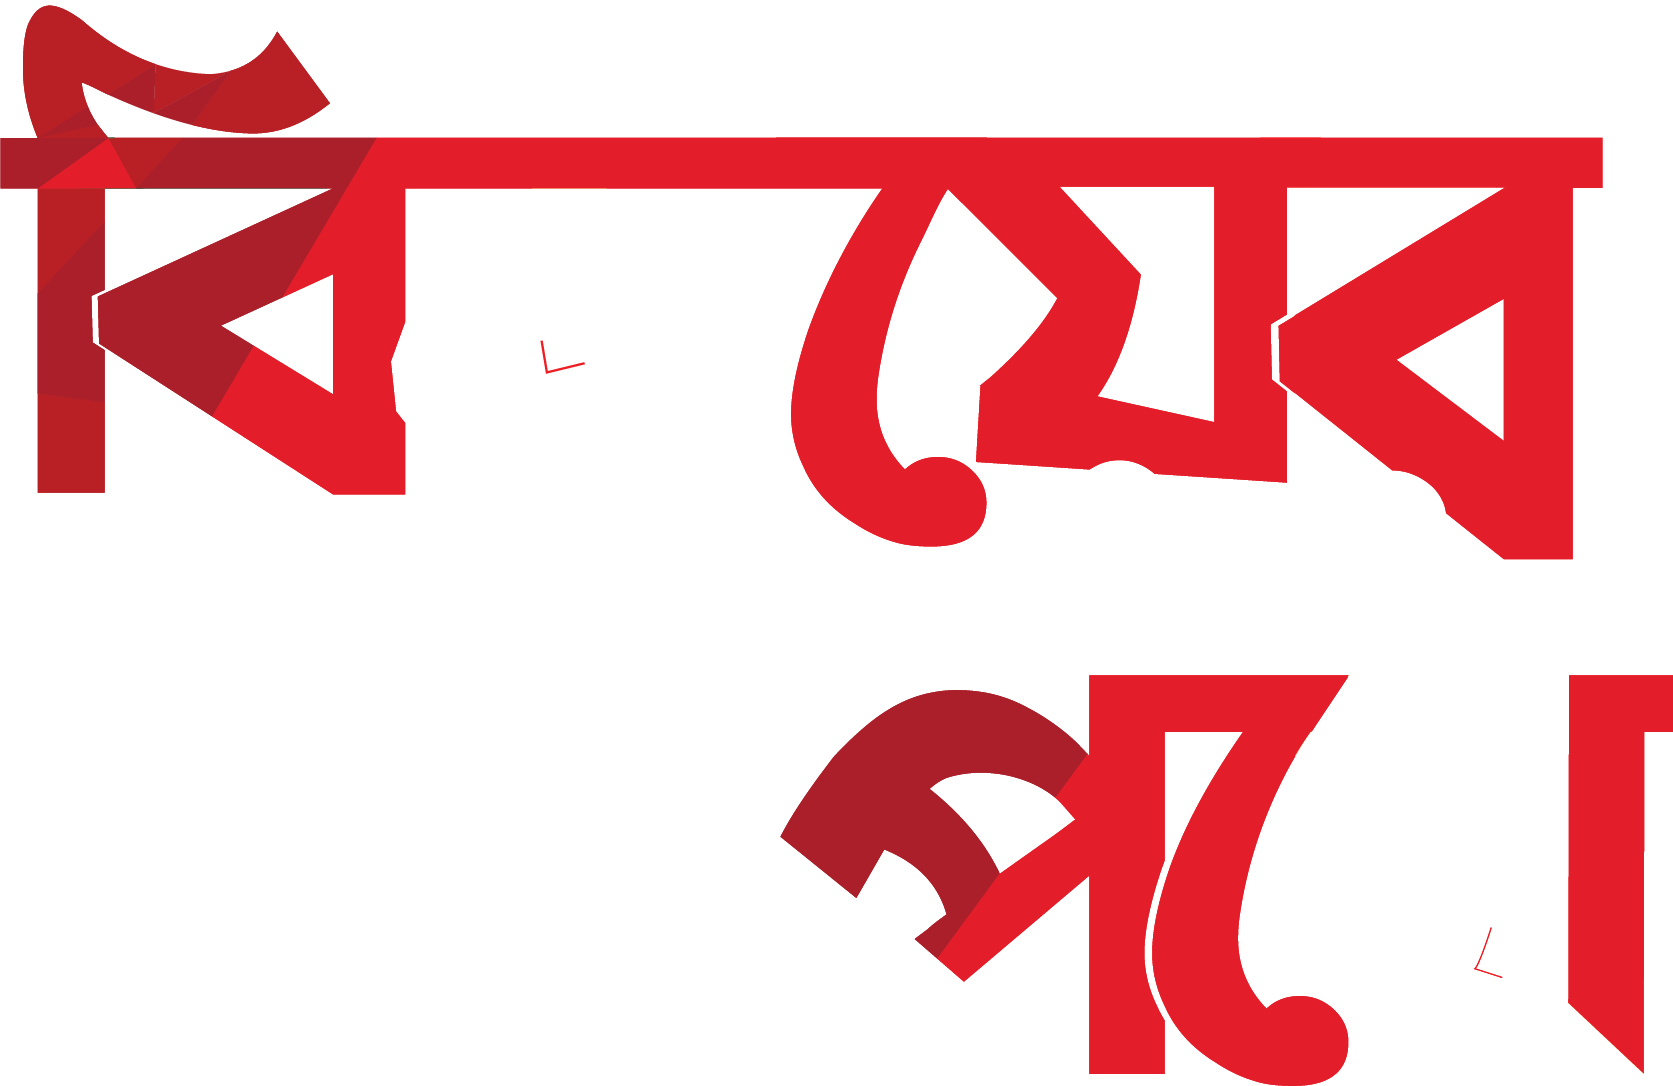
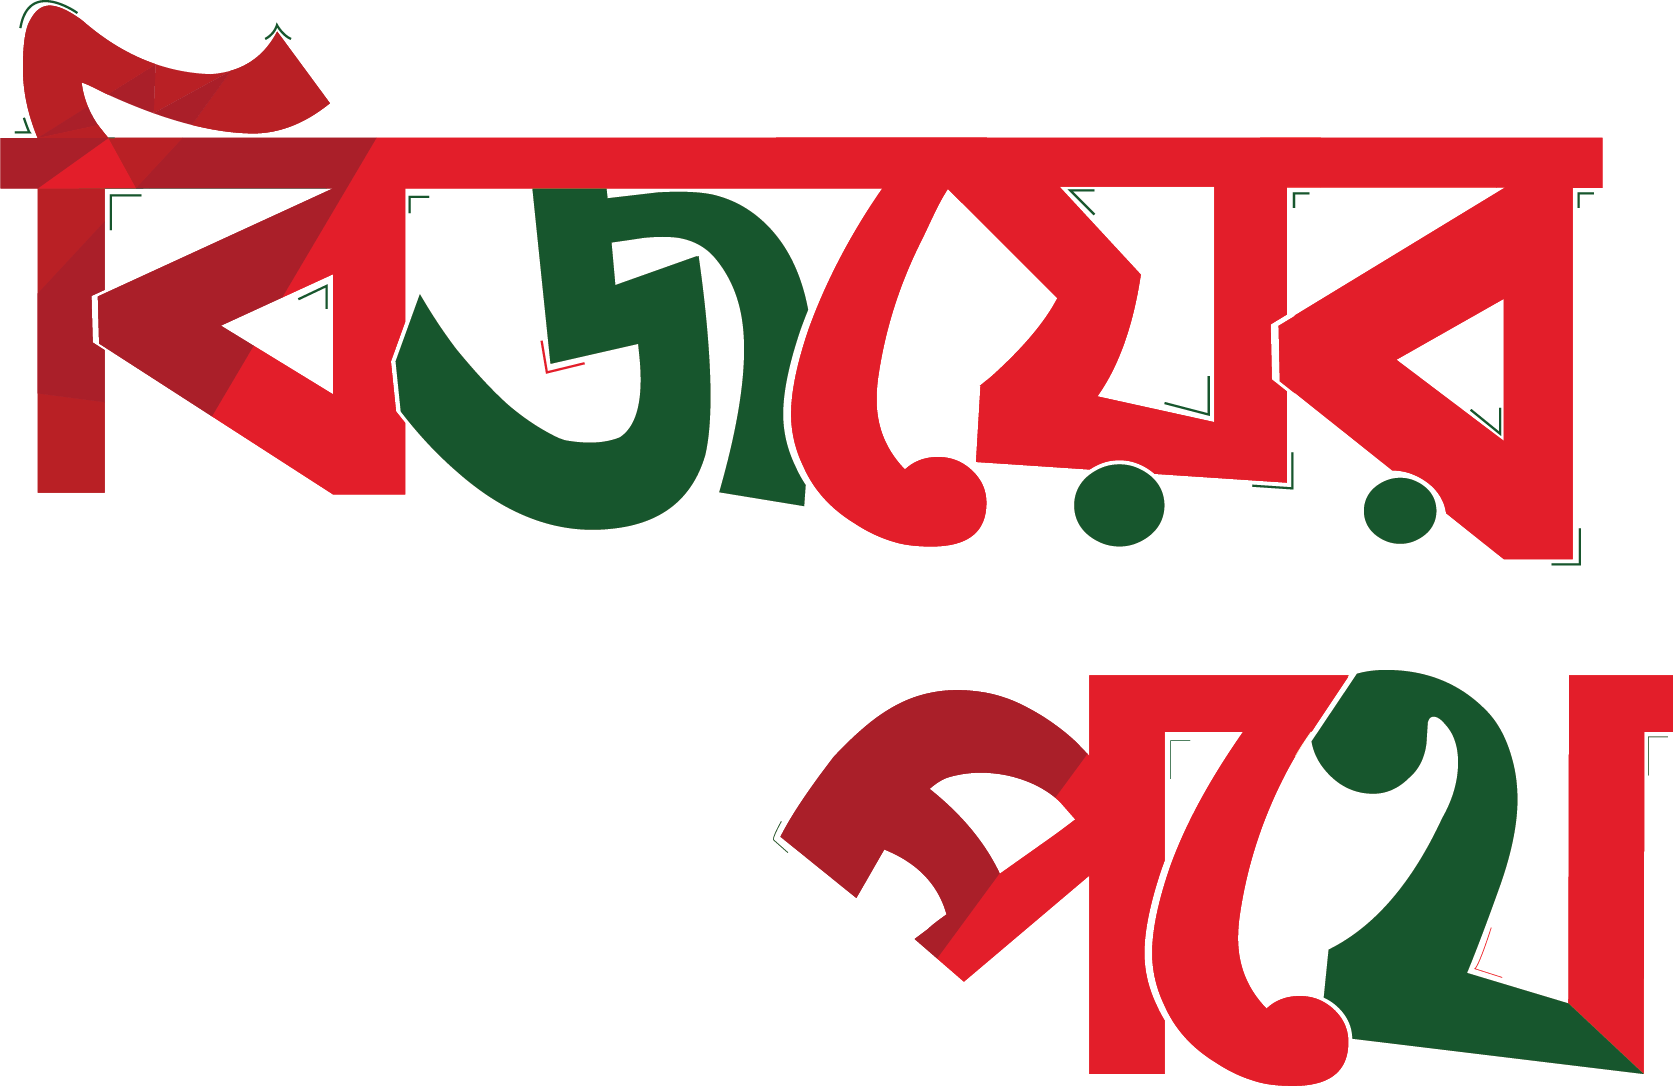
up

diff --git a/Victory-Day-Gift.html b/Victory-Day-Gift.html
@@ -42,7 +42,9 @@
 * {
     font-family: Kalpurush;
 }
-
+.container-contact100 {
+  padding: 0px;
+}
 .label-input100,
 .input100 {
   font-family: Kalpurush;
@@ -95,9 +97,9 @@
 <div class="container-contact100">
 <div class="wrap-contact100">
 <form method="post" autocomplete="off" id="form" name="VictoryForm" class="contact100-form validate-form">
-<span class="contact100-form-title"  style="color: red;font-family: Kalpurush;">
-	<b style="color: green;">বিজয়ের পথে</b><br>
-ডাউনলোড ফরম
+<span class="contact100-form-title"  style="color: green; font-family: Kalpurush;">
+  <img src="images/Victory.png" height="100px">
+  <br><br>ডাউনলোড <span style="color: red;">ফরম</span>
 </span>
 <label class="label-input100" for="name">তোমার নাম লিখ *</label>
 <div class="wrap-input100 wrap-input100">
